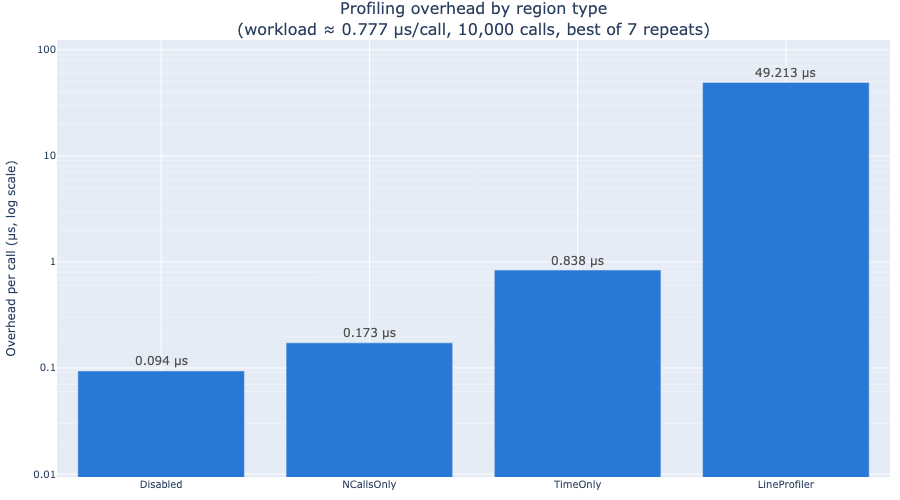
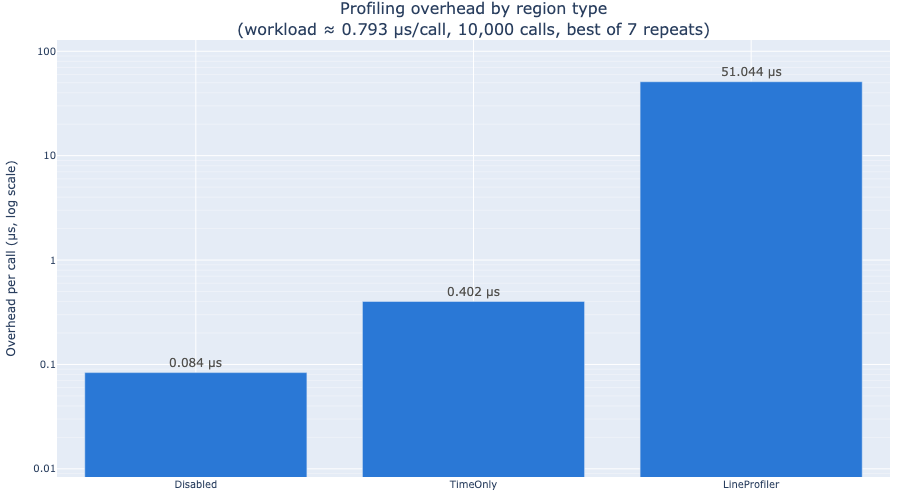
np.int64(perf_counter_ns()) --> perf_counter_ns() (#146)

diff --git a/src/scope_profiler/tests/test_overhead.py b/src/scope_profiler/tests/test_overhead.py
@@ -31,15 +31,29 @@ from scope_profiler import ProfileManager
 from scope_profiler.region_profiler import DisabledProfileRegion, TimeOnlyProfileRegion
 
 # Per-call budgets in nanoseconds, by profiling mode. Measured on an idle
-# laptop (2026): ~100 ns disabled, ~780 ns with timestamps.
+# laptop (2026): ~100 ns disabled, ~360 ns with timestamps -- of which two
+# perf_counter_ns() reads are ~90 ns, so most of the rest is the `with`
+# statement itself.
+#
+# The budgets sit ~10x above that, which is what a heavily contended machine
+# needs: under eight competing CPU-bound processes the same measurement rises
+# to ~900 ns. They therefore catch structural regressions (an allocation, a
+# lock, a filesystem touch per call), not a 2x slowdown -- no absolute budget
+# can do the latter without going flaky. The printed numbers are what make a
+# 2x change visible; see the module docstring for reading them.
 BUDGET_NS = {
     "disabled": 2_000,
-    "time": 6_000,
+    "time": 4_000,
 }
 
 # Extra budget for resolving a region by name on every call instead of
 # hoisting the region object out of the loop (measured: ~45 ns, one dict get).
 LOOKUP_BUDGET_NS = 2_000
+
+# Buffer growth is measured in a single pass -- once the buffers have doubled
+# their way up they stay grown, so it cannot take the minimum over repeats and
+# is the noisiest number here. It also carries the reallocation copies.
+GROWTH_BUDGET_NS = 6_000
 
 # A region records one int64 start and one int64 end per call.
 BYTES_PER_EVENT = 16
@@ -285,11 +299,11 @@ def test_buffer_growth_stays_amortized(configure):
     # One pass only: growth happens once per capacity doubling, so repeating
     # the measurement would time an already-grown buffer.
     overhead = _overhead_ns(instrumented, _empty_loop, iterations=calls, repeats=1)
-    _report("buffer growth, amortized [time]", overhead, BUDGET_NS["time"])
+    _report("buffer growth, amortized [time]", overhead, GROWTH_BUDGET_NS)
 
-    assert overhead < BUDGET_NS["time"], (
+    assert overhead < GROWTH_BUDGET_NS, (
         f"growing from buffer_limit=8 costs {overhead:.0f} ns/call amortized, "
-        f"budget {BUDGET_NS['time']} ns"
+        f"budget {GROWTH_BUDGET_NS} ns"
     )
     # Growth must not lose or duplicate events.
     assert region.num_calls == calls
@@ -351,7 +365,7 @@ def test_measured_duration_matches_wall_clock(configure):
     The instrumentation cost has to fall *outside* the recorded interval;
     if it leaked in, every duration in every report would be inflated.
     """
-    calls = 200
+    calls = 100
     busy_ns = 200_000  # ~0.2 ms of real work per call
     configure()
     region = ProfileManager.profile_region("busy")
@@ -361,26 +375,33 @@ def test_measured_duration_matches_wall_clock(configure):
         while perf_counter_ns() < deadline:
             pass
 
-    outer_start = perf_counter_ns()
-    for _ in range(calls):
-        with region:
-            spin(busy_ns)
-    outer_end = perf_counter_ns()
+    def measure_gap():
+        """Nanoseconds per call the loop spent outside the recorded intervals."""
+        start_ptr = region.ptr
+        outer_start = perf_counter_ns()
+        for _ in range(calls):
+            with region:
+                spin(busy_ns)
+        outer_end = perf_counter_ns()
+        recorded = int(
+            np.sum(
+                region.end_times[start_ptr : start_ptr + calls]
+                - region.start_times[start_ptr : start_ptr + calls]
+            )
+        )
+        wall = outer_end - outer_start
+        # Recorded time can never exceed the wall clock it happened in.
+        assert recorded <= wall
+        return (wall - recorded) / calls, recorded / calls
 
-    recorded_ns = int(np.sum(region.end_times[:calls] - region.start_times[:calls]))
-    wall_ns = outer_end - outer_start
-    # The time the loop spent outside the recorded intervals is the
-    # instrumentation, measured here on a body that does real work.
-    _report(
-        "unrecorded gap, busy body [time]",
-        (wall_ns - recorded_ns) / calls,
-        BUDGET_NS["time"],
-    )
+    # The gap also absorbs any descheduling between calls, so take the best of
+    # several passes: only the minimum is dominated by the instrumentation.
+    gaps, per_calls = zip(*(measure_gap() for _ in range(REPEATS)))
+    gap_ns = min(gaps)
 
-    # Recorded time cannot exceed the wall clock, and the gap is the
-    # instrumentation: it stays inside the budget for these calls.
-    assert recorded_ns <= wall_ns
-    assert wall_ns - recorded_ns < calls * BUDGET_NS["time"]
+    _report("unrecorded gap, busy body [time]", gap_ns, BUDGET_NS["time"])
 
-    per_call_ns = recorded_ns / calls
-    assert per_call_ns >= busy_ns
+    # The instrumentation cost falls outside the recorded interval...
+    assert gap_ns < BUDGET_NS["time"]
+    # ...and the body's own time falls inside it.
+    assert min(per_calls) >= busy_ns

diff --git a/src/scope_profiler/region_profiler.py b/src/scope_profiler/region_profiler.py
@@ -97,6 +97,12 @@ class BaseProfileRegion:
         # `buffer_limit` is the *initial* capacity: `_grow` doubles it as
         # needed, so the number of calls a region can record is bounded only
         # by memory.
+        #
+        # The arrays are int64, so storing a timestamp converts the plain
+        # Python int from perf_counter_ns() on assignment. Do not wrap the
+        # clock reads in np.int64() to "match" the dtype: building the numpy
+        # scalar costs ~190 ns each, twice per call, and stores the same
+        # value. See tests/test_overhead.py for the budget this buys.
         self.ptr = 0
         self.buffer_limit = config.buffer_limit
         if self._records_time:
@@ -268,11 +274,11 @@ class TimeOnlyProfileRegion(BaseProfileRegion):
                 self._grow()
             scope_ptr = self.ptr
             self.ptr += 1
-            start = np.int64(perf_counter_ns())
+            start = perf_counter_ns()
             try:
                 return func(*args, **kwargs)
             finally:
-                end = np.int64(perf_counter_ns())
+                end = perf_counter_ns()
                 self.start_times[scope_ptr] = start
                 self.end_times[scope_ptr] = end
 
@@ -285,14 +291,14 @@ class TimeOnlyProfileRegion(BaseProfileRegion):
         scope_ptr = self.ptr
         self.ptr += 1
         self._scope_ptr_stack.append(scope_ptr)
-        self.start_times[scope_ptr] = np.int64(perf_counter_ns())
+        self.start_times[scope_ptr] = perf_counter_ns()
         self.num_calls += 1
         return self
 
     def __exit__(self, exc_type, exc_value, traceback):
         """Record the end time at this scope's reserved slot."""
         scope_ptr = self._scope_ptr_stack.pop()
-        self.end_times[scope_ptr] = np.int64(perf_counter_ns())
+        self.end_times[scope_ptr] = perf_counter_ns()
 
 
 # Full region: time + LIKWID
@@ -325,13 +331,13 @@ class FullProfileRegion(BaseProfileRegion):
                 self._grow()
             scope_ptr = self.ptr
             self.ptr += 1
-            start = np.int64(perf_counter_ns())
+            start = perf_counter_ns()
             self.likwid_marker_start(self.region_name)
             try:
                 return func(*args, **kwargs)
             finally:
                 self.likwid_marker_stop(self.region_name)
-                end = np.int64(perf_counter_ns())
+                end = perf_counter_ns()
                 self.start_times[scope_ptr] = start
                 self.end_times[scope_ptr] = end
 
@@ -345,7 +351,7 @@ class FullProfileRegion(BaseProfileRegion):
         scope_ptr = self.ptr
         self.ptr += 1
         self._scope_ptr_stack.append(scope_ptr)
-        self.start_times[scope_ptr] = np.int64(perf_counter_ns())
+        self.start_times[scope_ptr] = perf_counter_ns()
         self.likwid_marker_start(self.region_name)
         return self
 
@@ -353,7 +359,7 @@ class FullProfileRegion(BaseProfileRegion):
         """Record the end time at this scope's slot and stop the LIKWID region."""
         self.likwid_marker_stop(self.region_name)
         scope_ptr = self._scope_ptr_stack.pop()
-        self.end_times[scope_ptr] = np.int64(perf_counter_ns())
+        self.end_times[scope_ptr] = perf_counter_ns()
 
 
 # Line profiler region: time + line_profiler
@@ -392,13 +398,13 @@ class LineProfilerRegion(BaseProfileRegion):
                 self._grow()
             scope_ptr = self.ptr
             self.ptr += 1
-            start = np.int64(perf_counter_ns())
+            start = perf_counter_ns()
             self._line_profiler.enable_by_count()
             try:
                 return func(*args, **kwargs)
             finally:
                 self._line_profiler.disable_by_count()
-                end = np.int64(perf_counter_ns())
+                end = perf_counter_ns()
                 self.start_times[scope_ptr] = start
                 self.end_times[scope_ptr] = end
 
@@ -412,7 +418,7 @@ class LineProfilerRegion(BaseProfileRegion):
         scope_ptr = self.ptr
         self.ptr += 1
         self._scope_ptr_stack.append(scope_ptr)
-        self.start_times[scope_ptr] = np.int64(perf_counter_ns())
+        self.start_times[scope_ptr] = perf_counter_ns()
         self._line_profiler.enable_by_count()
         return self
 
@@ -420,7 +426,7 @@ class LineProfilerRegion(BaseProfileRegion):
         """Disable the line profiler and record the end time at this scope's slot."""
         self._line_profiler.disable_by_count()
         scope_ptr = self._scope_ptr_stack.pop()
-        self.end_times[scope_ptr] = np.int64(perf_counter_ns())
+        self.end_times[scope_ptr] = perf_counter_ns()
 
     def add_function(self, func) -> None:
         """Register a function for line-by-line profiling."""

diff --git a/docs/source/guide/overhead.md b/docs/source/guide/overhead.md
@@ -24,9 +24,9 @@ python examples/benchmark_overhead.py --show   # display interactively
 
 | Region type      | Overhead / call |
 | ---------------- | --------------: |
-| **Disabled**     |       ~0.03 µs  |
-| **TimeOnly**     |       ~0.75 µs  |
-| **LineProfiler** |       ~41 µs    |
+| **Disabled**     |        ~0.1 µs  |
+| **TimeOnly**     |       ~0.45 µs  |
+| **LineProfiler** |        ~50 µs   |
 
 _(Numbers measured on an Apple M-series CPU; absolute values will vary,
 but the relative ordering is stable.)_
@@ -34,7 +34,7 @@ but the relative ordering is stable.)_
 ## What this means for HPC
 
 The **TimeOnly** mode — the default and most commonly used — adds
-roughly **0.75 µs** per instrumented call. In practice:
+roughly **0.45 µs** per instrumented call. In practice:
 
 - A 64×64 matrix multiply takes ~36 µs, so the overhead is **< 2 %**.
 - A 256×256 matrix multiply takes ~780 µs, giving **< 0.1 %** overhead.
@@ -43,20 +43,22 @@ roughly **0.75 µs** per instrumented call. In practice:
 
 The profiler can also be **fully deactivated** at startup
 (`deactivate_profiling=True`) without removing any instrumentation from
-the source code. In this mode the overhead drops to ~0.03 µs — barely
+the source code. In this mode the overhead drops to ~0.1 µs — barely
 above the cost of a bare function call.
 
 ## LineProfiler
 
-The `line_profiler` mode is intentionally heavier (~41 µs per call)
+The `line_profiler` mode is intentionally heavier (~50 µs per call)
 because it instruments every source line in the profiled function. It
 is meant for **targeted debugging of individual functions**, not for
 always-on use in hot loops.
 
-## Flush overhead
+## Where the time goes
 
-The difference between "TimeOnly (no flush)" and "TimeOnly (flush)" is
-negligible in the benchmark because flushing is **amortized**: data is
-only written to HDF5 when the in-memory buffer is full (default:
-100,000 events). A single flush takes a few milliseconds but occurs
-only once per 100k calls, adding < 0.1 µs per call on average.
+A recorded call is two `perf_counter_ns()` reads (~45 ns each) plus a slot
+reservation; the rest is the cost of the `with` statement or the decorator
+wrapper itself. Nothing touches the filesystem: the timestamps accumulate in a
+numpy buffer that doubles when it fills, and the whole buffer is written once,
+at `finalize()`. Writing is therefore not part of the per-call cost at all —
+`deactivate_file_output` changes what happens at the end of the run, not what
+happens in the loop.

diff --git a/README.md b/README.md
@@ -157,14 +157,14 @@ against a bare function call:
 ![Profiling overhead by region type](https://raw.githubusercontent.com/max-models/scope-profiler/refs/heads/devel/figures/benchmark_overhead.png)
 
 The default **TimeOnly** mode — nanosecond timestamps for every call — adds
-roughly **0.75 µs** per instrumented call.
+roughly **0.45 µs** per instrumented call.
 
 Profiling can also be fully deactivated at setup time
-(`deactivate_profiling=True`) to reduce the overhead to ~0.03 µs — barely
+(`deactivate_profiling=True`) to reduce the overhead to ~0.1 µs — barely
 above a bare function call — making it safe to leave instrumentation in
 production code and toggle it on only when needed.
 
-The **LineProfiler** mode is intentionally heavier (~41 µs/call) because
+The **LineProfiler** mode is intentionally heavier (~50 µs/call) because
 `line_profiler` traces every source line. It is designed for targeted
 debugging of individual functions, not for always-on use in hot loops.
 

diff --git a/docs/source/guide/configuration.md b/docs/source/guide/configuration.md
@@ -105,7 +105,7 @@ You can override this per function with
 
 When `deactivate_profiling=True`, every region is a `DisabledProfileRegion`
 whose `__enter__` / `__exit__` / `wrap` are trivial no-ops, adding only
-the cost of a Python function call (~45 ns).
+the cost of a Python function call (~0.1 µs).
 
 ## Re-configuring
 
